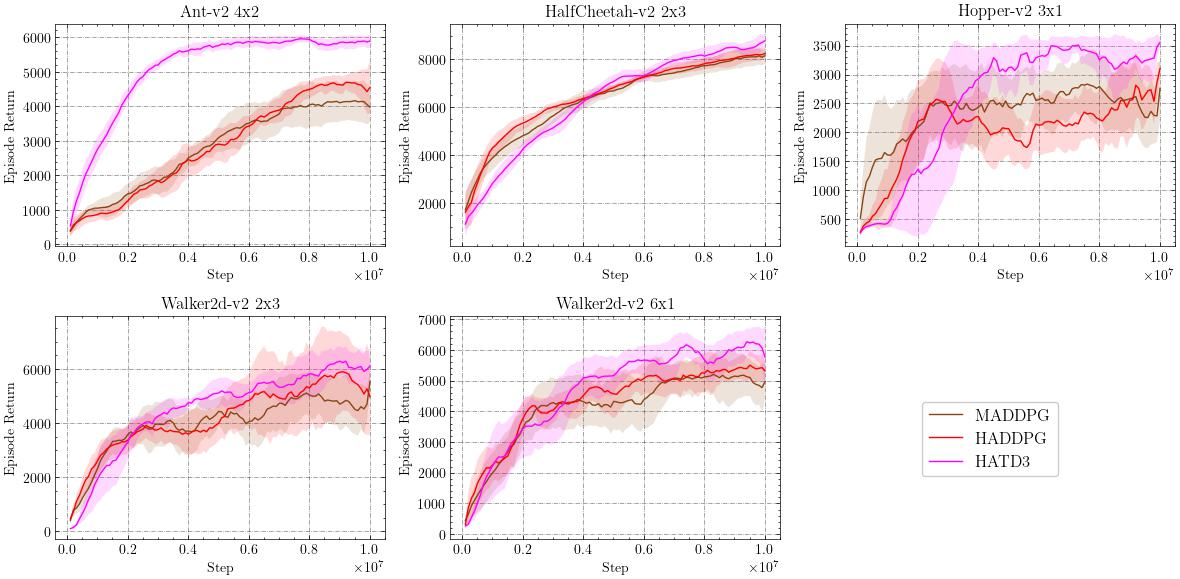
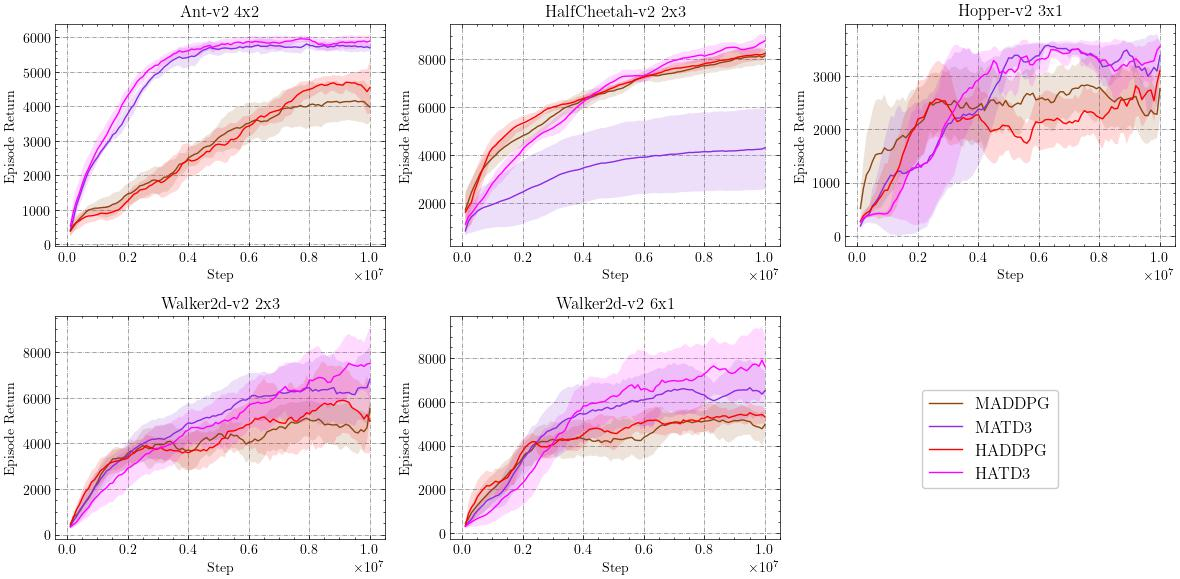
Update README.md

diff --git a/README.md b/README.md
@@ -209,16 +209,17 @@ After these steps, you can apply the algorithms immediately as above.
 ### Application Scope of Algorithms
 
 |        | Continuous action space | Discrete action space | Multi Discrete action space |
-|:------:| :---------------------: | :-------------------: |:---------------------------:|
-| HAPPO  | √                       | √                     |              √              |
-| HATRPO | √                       | √                     |                             |
-| HAA2C  | √                       | √                     |              √              |
-| HADDPG | √                       |                       |                             |
-| HATD3  | √                       |                       |                             |
-| HAD3QN |                         | √                     |                             |
-| HASAC  | √                       | √                     |              √              |
-| MAPPO  | √                       | √                     |              √              |
-| MADDPG | √                       |                       |                             |
+| :----: | :---------------------: | :-------------------: | :-------------------------: |
+| HAPPO  |            √            |           √           |              √              |
+| HATRPO |            √            |           √           |                             |
+| HAA2C  |            √            |           √           |              √              |
+| HADDPG |            √            |                       |                             |
+| HATD3  |            √            |                       |                             |
+| HAD3QN |                         |           √           |                             |
+| HASAC  |            √            |           √           |              √              |
+| MAPPO  |            √            |           √           |              √              |
+| MADDPG |            √            |                       |                             |
+| MATD3  |            √            |                       |                             |
 
 
 
@@ -232,7 +233,7 @@ After these steps, you can apply the algorithms immediately as above.
 
 ### MAMuJoCo
 
-HAPPO and HADDPG outperforms MAPPO and MADDPG; HAPPO and HATD3 are the most effective methods for heterogeneous-agent cooperation tasks.
+HAPPO, HADDPG, and HATD3 outperform MAPPO, MADDPG, and MATD3; HAPPO and HATD3 are the most effective methods for heterogeneous-agent cooperation tasks.
 
 <div align="center">
   <img src="./assets/mamujoco_on_policy_learning_curve.jpg" width="100%"/>
